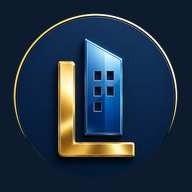
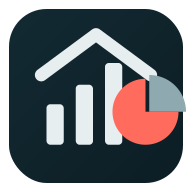
Add files via upload

diff --git a/styles.css b/styles.css
@@ -7952,161 +7952,39 @@ button.attach-chip {
 @media (max-width:1280px){.board{grid-template-columns:repeat(2,minmax(0,1fr))!important}}
 @media (max-width:760px){.board{grid-template-columns:1fr!important}}
 
-
-/* ==== v49 dark theme refinement ==== */
-body.t-dark {
-  --bg: #0C1D24!important;
-  --bg2: #10262E!important;
-  --bg3: #132A33!important;
-  --col: #132A33!important;
-  --col2: #16313B!important;
-  --text: #E6EEF0!important;
-  --muted: #8FA9B0!important;
-  --line: #21424E!important;
-  --card: #173541!important;
-  --card2: #173541!important;
-  --nm: #F5FAFB!important;
-  --emp: #A7BDC4!important;
-  --accent: #FF6B5C!important;
-  --accent2: #E65A4D!important;
-}
-body.t-dark,
-body.t-dark #mainWrap,
-body.t-dark .view.active,
-body.t-dark header {
-  background: var(--bg)!important;
-}
-body.t-dark #sideNav {
-  background: linear-gradient(180deg,#0C1D24 0%,#10262E 100%)!important;
-  border-right: 1px solid #21424E!important;
-}
-body.t-dark #sideNav .side-account-card,
-body.t-dark #sideNav .nav-tab,
-body.t-dark #sideNav .side-link {
-  background: transparent!important;
-  border-color: #21424E!important;
-  color: #E6EEF0!important;
-}
-body.t-dark #sideNav .side-section-title,
-body.t-dark #sideNav .side-link .meta {
-  color: #8FA9B0!important;
-}
-body.t-dark #sideNav .nav-tab.active {
-  background: linear-gradient(180deg,#FF6B5C 0%,#F25F52 100%)!important;
-  color: #fff!important;
-  border-color: transparent!important;
-  box-shadow: 0 10px 22px rgba(255,107,92,.24)!important;
-}
-body.t-dark #sideNav .nav-tab.active .nav-icon,
-body.t-dark #sideNav .nav-tab.active .side-label,
-body.t-dark #sideNav .nav-tab.active .nav-badge {
-  color: #fff!important;
-}
-body.t-dark .side-version {
-  background: rgba(255,107,92,.18)!important;
-  color: #ffd8d4!important;
-  border: 1px solid rgba(255,107,92,.32)!important;
-}
-body.t-dark .cbox,
-body.t-dark .btn,
-body.t-dark .more-menu,
-body.t-dark .theme-menu,
-body.t-dark .filt-panel select,
-body.t-dark .mf-sheet,
-body.t-dark .search-wrap input,
-body.t-dark select {
-  background: #132A33!important;
-  color: #E6EEF0!important;
-  border-color: #21424E!important;
-  box-shadow: none!important;
-}
-body.t-dark .cbox .t { color: #9FB4BB!important; }
-body.t-dark .cbox .n { color: #FF6B5C!important; }
-body.t-dark #btnNew,
-body.t-dark #btnNewMobile {
-  background: linear-gradient(180deg,#FF6B5C 0%,#F25F52 100%)!important;
-  color: #fff!important;
-  border-color: #E65A4D!important;
-  box-shadow: 0 10px 22px rgba(255,107,92,.22)!important;
-}
-body.t-dark .search-wrap input::placeholder {
-  color: #8FA9B0!important;
-}
-body.t-dark .col {
-  background: #10262E!important;
-  border: 1px solid #21424E!important;
-  border-radius: 18px!important;
-  box-shadow: 0 12px 26px rgba(0,0,0,.18)!important;
-}
-body.t-dark .col-head {
-  background: #10262E!important;
-  border-bottom: 1px solid #21424E!important;
-}
-body.t-dark .col-head .cname {
-  color: #E6EEF0!important;
-}
-body.t-dark .col-head .cnt {
-  background: #173541!important;
-  color: #FF6B5C!important;
-  border: 1px solid #21424E!important;
-}
-body.t-dark .card {
-  background: #173541!important;
-  border: 1px solid #28505E!important;
-  border-radius: 14px!important;
-  box-shadow: 0 6px 16px rgba(0,0,0,.16)!important;
-}
-body.t-dark .card.p-low,
-body.t-dark .card.p-med,
-body.t-dark .card.p-high,
-body.t-dark .card.p-top,
-body.t-dark .card.p-done {
-  background: #173541!important;
-}
-body.t-dark .card::before {
-  width: 4px!important;
-  border-radius: 14px 0 0 14px!important;
-}
-body.t-dark .card.p-top::before { background: #FF6B5C!important; }
-body.t-dark .card.p-high::before { background: #F6B94A!important; }
-body.t-dark .card.p-med::before { background: #56B6C2!important; }
-body.t-dark .card.p-low::before { background: #6F8791!important; }
-body.t-dark .card.p-done::before { background: #5FBF87!important; }
-body.t-dark .card-nm,
-body.t-dark .sb-nm { color: #F4FAFB!important; }
-body.t-dark .card-emp,
-body.t-dark .sb-emp { color: #A7BDC4!important; }
-body.t-dark .card-prio { display: none!important; }
-body.t-dark .chip {
-  background: #112B33!important;
-  color: #DCE8EA!important;
-  border-color: #28505E!important;
-}
-body.t-dark .chip-nc-green {
-  background: #1E7A53!important;
-  color: #F2FFFA!important;
-  border-color: #299565!important;
-}
-body.t-dark .chip-nc-red,
-body.t-dark .chip-dt-red {
-  background: #4B2527!important;
-  color: #FFD6D2!important;
-  border-color: #8E4447!important;
-}
-body.t-dark .chip-dt-soft,
-body.t-dark .chip-dt-blue,
-body.t-dark .chip-nc-neutral {
-  background: #183942!important;
-  color: #BFD5DB!important;
-  border-color: #2E5967!important;
-}
-body.t-dark .wa-btn {
-  background: #1E5E4D!important;
-  border-color: #26745F!important;
-}
-body.t-dark .toast {
-  background: #132A33!important;
-  color: #E6EEF0!important;
-  border: 1px solid #21424E!important;
-  box-shadow: 0 12px 30px rgba(0,0,0,.28)!important;
-}
+/* v50 — identidade visual oficial LeveCRM */
+body.t-light{--bg:#E6EEF0!important;--bg2:#F2F6F7!important;--bg3:#FFFFFF!important;--col:#F7FAFB!important;--col2:#FFFFFF!important;--text:#0C1D24!important;--muted:#6F8791!important;--line:#D4E0E4!important;--card:#FFFFFF!important;--card2:#F7FAFB!important;--nm:#0C1D24!important;--emp:#536D77!important;--accent:#FF6B5C!important;--accent2:#E65A4D!important;background:#E6EEF0!important}
+body.t-light #mainWrap,body.t-light .view.active,body.t-light header{background:#E6EEF0!important}
+body.t-light #sideNav{background:linear-gradient(180deg,#0C1D24 0%,#10262E 100%)!important;border-right:1px solid #21424E!important;color:#E6EEF0!important}
+body.t-light #sideNav .side-account-card{background:#132A33!important;border:1px solid #21424E!important;color:#E6EEF0!important}
+body.t-light #sideNav .side-section-title,body.t-light #sideNav .side-link .meta{color:#8FA9B0!important}
+body.t-light #sideNav .nav-tab,body.t-light #sideNav .side-link{color:#E6EEF0!important;background:transparent!important}
+body.t-light #sideNav .nav-tab:hover,body.t-light #sideNav .side-link:hover{background:#132A33!important}
+body.t-light #sideNav .nav-tab.active{background:linear-gradient(180deg,#FF6B5C 0%,#F25F52 100%)!important;color:#fff!important;border-color:transparent!important;box-shadow:0 10px 22px rgba(255,107,92,.22)!important}
+body.t-light .cbox,body.t-light .btn,body.t-light .filt-panel select,body.t-light .more-menu,body.t-light .pill,body.t-light .search-wrap input,body.t-light .theme-menu,body.t-light select{background:#FFFFFF!important;color:#0C1D24!important;border-color:#D4E0E4!important;box-shadow:none!important}
+body.t-light .cbox .t{color:#6F8791!important}body.t-light .cbox .n{color:#FF6B5C!important}
+body.t-light #btnNew,body.t-light #btnNewMobile{background:linear-gradient(180deg,#FF6B5C 0%,#F25F52 100%)!important;color:#fff!important;border-color:#E65A4D!important;box-shadow:0 9px 20px rgba(255,107,92,.20)!important}
+body.t-light .col{background:#F7FAFB!important;border:1px solid #D4E0E4!important;border-radius:16px!important;box-shadow:0 8px 20px rgba(12,29,36,.06)!important}
+body.t-light .col-head{background:#FFFFFF!important;border-bottom:1px solid #D4E0E4!important}body.t-light .col-head .cname{color:#0C1D24!important}body.t-light .col-head .cnt{background:#E6EEF0!important;color:#0C1D24!important;border:1px solid #D4E0E4!important}
+body.t-light .card,body.t-light .card.p-low,body.t-light .card.p-med,body.t-light .card.p-high,body.t-light .card.p-top,body.t-light .card.p-done{background:#FFFFFF!important;border:1px solid #D4E0E4!important;box-shadow:0 4px 12px rgba(12,29,36,.06)!important}
+body.t-light .card::before{width:4px!important;border-radius:12px 0 0 12px!important}body.t-light .card.p-top::before{background:#FF6B5C!important}body.t-light .card.p-high::before{background:#8FA9B0!important}body.t-light .card.p-med::before{background:#6F8791!important}body.t-light .card.p-low::before{background:#B4C4CA!important}body.t-light .card.p-done::before{background:#5D9C7A!important}
+body.t-light .card-nm,body.t-light .sb-nm{color:#0C1D24!important}body.t-light .card-emp,body.t-light .sb-emp{color:#536D77!important}
+body.t-light .chip{background:#EEF3F5!important;color:#35515C!important;border-color:#D4E0E4!important}body.t-light .chip-nc-green{background:#DFF3E8!important;color:#246445!important;border-color:#B9DFC9!important}body.t-light .chip-nc-red,body.t-light .chip-dt-red{background:#FFE8E5!important;color:#A33C34!important;border-color:#FFC5BE!important}body.t-light .wa-btn{background:#25D366!important;border-color:#20B95A!important}
+body.t-dark{--bg:#0C1D24!important;--bg2:#10262E!important;--bg3:#132A33!important;--col:#10262E!important;--col2:#132A33!important;--text:#E6EEF0!important;--muted:#8FA9B0!important;--line:#21424E!important;--card:#132A33!important;--card2:#173541!important;--nm:#F3F8F9!important;--emp:#A4BBC2!important;--accent:#FF6B5C!important;--accent2:#E65A4D!important;background:#0C1D24!important}
+body.t-dark #mainWrap,body.t-dark .view.active,body.t-dark header{background:#0C1D24!important}
+body.t-dark #sideNav{background:linear-gradient(180deg,#0C1D24 0%,#10262E 100%)!important;border-right:1px solid #21424E!important}
+body.t-dark #sideNav .side-account-card{background:#132A33!important;border:1px solid #21424E!important;color:#E6EEF0!important}
+body.t-dark #sideNav .side-section-title,body.t-dark #sideNav .side-link .meta{color:#8FA9B0!important}
+body.t-dark #sideNav .nav-tab,body.t-dark #sideNav .side-link{background:transparent!important;color:#E6EEF0!important}
+body.t-dark #sideNav .nav-tab:hover,body.t-dark #sideNav .side-link:hover{background:#132A33!important}
+body.t-dark #sideNav .nav-tab.active{background:linear-gradient(180deg,#FF6B5C 0%,#F25F52 100%)!important;color:#fff!important;border-color:transparent!important;box-shadow:0 10px 22px rgba(255,107,92,.22)!important}
+body.t-dark .cbox,body.t-dark .btn,body.t-dark .filt-panel select,body.t-dark .more-menu,body.t-dark .pill,body.t-dark .search-wrap input,body.t-dark .theme-menu,body.t-dark select{background:#132A33!important;color:#E6EEF0!important;border-color:#21424E!important;box-shadow:none!important}
+body.t-dark .cbox .t{color:#9DB2B9!important}body.t-dark .cbox .n{color:#FF6B5C!important}
+body.t-dark #btnNew,body.t-dark #btnNewMobile{background:linear-gradient(180deg,#FF6B5C 0%,#F25F52 100%)!important;color:#fff!important;border-color:#E65A4D!important;box-shadow:0 9px 20px rgba(255,107,92,.20)!important}
+body.t-dark .col{background:#10262E!important;border:1px solid #21424E!important;border-radius:16px!important;box-shadow:0 10px 24px rgba(0,0,0,.15)!important}
+body.t-dark .col-head{background:#10262E!important;border-bottom:1px solid #21424E!important}body.t-dark .col-head .cname{color:#E6EEF0!important}body.t-dark .col-head .cnt{background:#173541!important;color:#FF6B5C!important;border:1px solid #28505E!important}
+body.t-dark .card,body.t-dark .card.p-low,body.t-dark .card.p-med,body.t-dark .card.p-high,body.t-dark .card.p-top,body.t-dark .card.p-done{background:#132A33!important;border:1px solid #28505E!important;box-shadow:0 5px 14px rgba(0,0,0,.16)!important}
+body.t-dark .card::before{width:4px!important;border-radius:12px 0 0 12px!important}body.t-dark .card.p-top::before{background:#FF6B5C!important}body.t-dark .card.p-high::before{background:#8FA9B0!important}body.t-dark .card.p-med::before{background:#6F8791!important}body.t-dark .card.p-low::before{background:#536D77!important}body.t-dark .card.p-done::before{background:#5D9C7A!important}
+body.t-dark .card-nm,body.t-dark .sb-nm{color:#F3F8F9!important}body.t-dark .card-emp,body.t-dark .sb-emp{color:#A4BBC2!important}
+body.t-dark .chip{background:#173541!important;color:#D9E5E8!important;border-color:#28505E!important}body.t-dark .chip-nc-green{background:#1E5E4D!important;color:#EAFBF3!important;border-color:#287761!important}body.t-dark .chip-nc-red,body.t-dark .chip-dt-red{background:#4B2527!important;color:#FFD6D2!important;border-color:#8E4447!important}body.t-dark .wa-btn{background:#1E7552!important;border-color:#28966A!important}body.t-dark .toast{background:#132A33!important;color:#E6EEF0!important;border:1px solid #21424E!important}
+.card-prio{display:none!important}

diff --git a/index.html b/index.html
@@ -34,7 +34,7 @@
 <meta name="theme-color" content="#0D1B2E"/>
 <meta name="apple-mobile-web-app-title" content="LeveCRM"/>
 <meta name="application-name" content="LeveCRM"/>
-<meta name="application-version" content="49"/>
+<meta name="application-version" content="50"/>
 <meta http-equiv="Cache-Control" content="no-cache, no-store, must-revalidate"/>
 <meta http-equiv="Pragma" content="no-cache"/>
 <meta http-equiv="Expires" content="0"/>
@@ -89,7 +89,7 @@
 
 
 
-<link rel="stylesheet" href="./styles.css?v=49"/>
+<link rel="stylesheet" href="./styles.css?v=50"/>
 </head>
 <body class="t-navy has-sidebar">
 
@@ -99,7 +99,7 @@
   <div class="side-top">
     <a class="side-logo" id="sideLogoHome" href="javascript:void(0)">
       <img src="./levecrm-logo.png" alt="LeveCRM"/>
-      <span class="side-brand"><strong>Leve<span class="crm">CRM</span></strong><small>Corretores de imóveis</small><span class="side-version">v49</span></span>
+      <span class="side-brand"><strong>Leve<span class="crm">CRM</span></strong><small>Corretores de imóveis</small><span class="side-version">v50</span></span>
     </a>
     <button id="sideToggleNav" type="button" aria-label="Recolher menu">≡</button>
   </div>
@@ -223,7 +223,7 @@
     <div class="mf-actions">
       <button class="btn" id="mfExport"><svg width="15" height="15" viewBox="0 0 24 24" fill="none" stroke="currentColor" stroke-width="2" stroke-linecap="round" stroke-linejoin="round" aria-hidden="true" style="vertical-align:-3px;margin-right:6px"><path d="M12 3v12m0 0l-4-4m4 4l4-4"/><path d="M4 17v2a2 2 0 0 0 2 2h12a2 2 0 0 0 2-2v-2"/></svg>Exportar CSV</button>
       <button class="btn" id="mfImport"><svg width="15" height="15" viewBox="0 0 24 24" fill="none" stroke="currentColor" stroke-width="2" stroke-linecap="round" stroke-linejoin="round" aria-hidden="true" style="vertical-align:-3px;margin-right:6px"><path d="M12 21V9m0 0l-4 4m4-4l4 4"/><path d="M4 7V5a2 2 0 0 1 2-2h12a2 2 0 0 1 2 2v2"/></svg>Importar CSV</button>
-      <button class="btn" id="mfAiImport" style="grid-column:1/-1"><svg width="15" height="15" viewBox="0 0 24 24" fill="none" stroke="currentColor" stroke-width="2" stroke-linecap="round" stroke-linejoin="round" aria-hidden="true" style="vertical-align:-3px;margin-right:6px"><path d="M12 3l1.8 4.4L18 9l-4.2 1.6L12 15l-1.8-4.4L6 9l4.2-1.6z"/><path d="M19 14l.9 2.2L22 17l-2.1.8L19 20l-.9-2.2L16 17l2.1-.8z"/></svg>Importar contato</button>
+      <button class="btn" id="mfAiImport" style="grid-column:1/-1;background:linear-gradient(180deg,#1B2E4B,#0D1E32);color:#4A90D9;border-color:rgba(74,144,217,.3)"><svg width="15" height="15" viewBox="0 0 24 24" fill="none" stroke="currentColor" stroke-width="2" stroke-linecap="round" stroke-linejoin="round" aria-hidden="true" style="vertical-align:-3px;margin-right:6px"><path d="M12 3l1.8 4.4L18 9l-4.2 1.6L12 15l-1.8-4.4L6 9l4.2-1.6z"/><path d="M19 14l.9 2.2L22 17l-2.1.8L19 20l-.9-2.2L16 17l2.1-.8z"/></svg>Importar contato</button>
     </div>
     <button class="btn mf-close" id="mobileFilterClose">Fechar</button>
   </div>
@@ -823,7 +823,7 @@
 
 
 <script src="https://cdn.jsdelivr.net/npm/@supabase/supabase-js@2"></script>
-<script src="./app.js?v=49"></script>
+<script src="./app.js?v=50"></script>
 
 </body>
 </html>

diff --git a/service-worker.js b/service-worker.js
@@ -1,7 +1,7 @@
-const CACHE='levecrm-v49';
+const CACHE='levecrm-v50';
 const CORE=[
-  './','./index.html','./propostas.html','./styles.css?v=49','./app.js?v=49','./propostas.js?v=49',
-  './levecrm-logo.png','./manifest.webmanifest','./icon-192.png','./icon-512.png','./leads-iniciais.json?v=49'
+  './','./index.html','./propostas.html','./styles.css?v=50','./app.js?v=50','./propostas.js?v=50',
+  './levecrm-logo.png','./manifest.webmanifest','./icon-192.png','./icon-512.png','./leads-iniciais.json?v=50'
 ];
 
 self.addEventListener('install',event=>{

diff --git a/propostas.html b/propostas.html
@@ -915,7 +915,7 @@
     </main>
   </div>
 
-  <script src="./propostas.js?v=49"></script>
+  <script src="./propostas.js?v=50"></script>
 
 </body>
 </html>